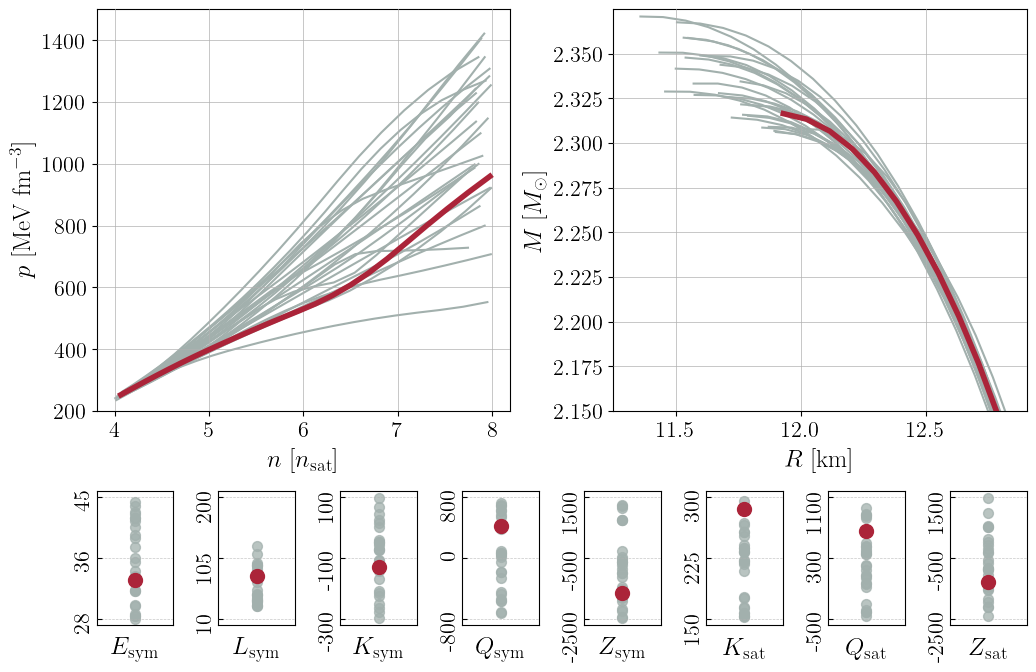
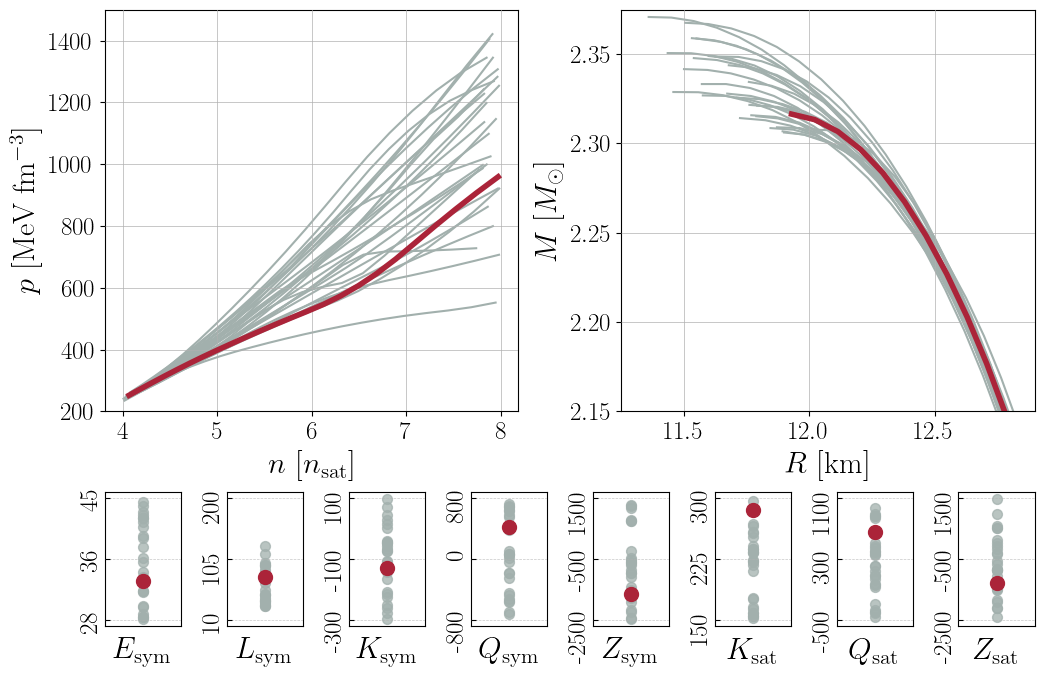
Bigger fontsizes

diff --git a/src/paper_jose/postprocessing/plots_doppelgangers.py b/src/paper_jose/postprocessing/plots_doppelgangers.py
@@ -39,8 +39,8 @@ params = {"axes.grid": True,
         "axes.labelcolor" : "black",
         "axes.edgecolor" : "black",
         "font.serif" : ["Computer Modern Serif"],
-        "xtick.labelsize": 16,
-        "ytick.labelsize": 16,
+        "xtick.labelsize": 18,
+        "ytick.labelsize": 18,
         "axes.labelsize": 24,
         "figure.titlesize": 16
         }
@@ -634,7 +634,8 @@ def plot_campaign_results(outdirs_list: list[str],
     ### First plot: the different NEP values and the most important NS properties
     
     # Hyperparameters put here:
-    label_fontsize = 18
+    label_fontsize = 22
+    ticks_fontsize = 16
     num_ticks = 3
     
     # Trying color combinations from https://www.wada-sanzo-colors.com/
